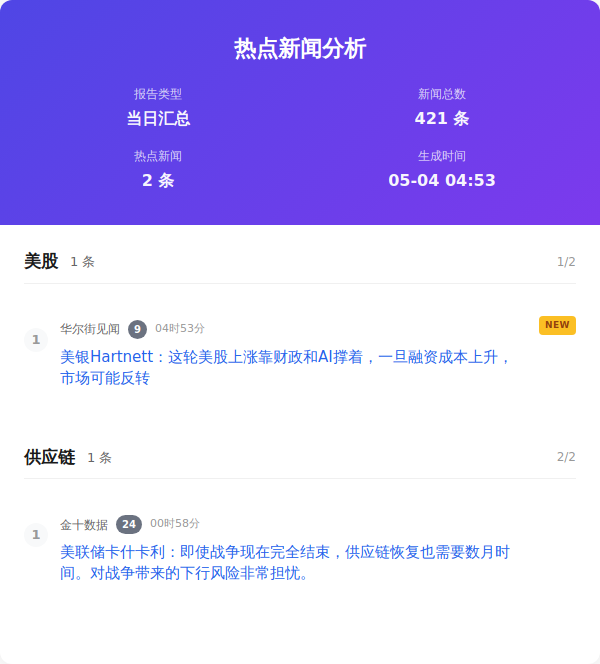
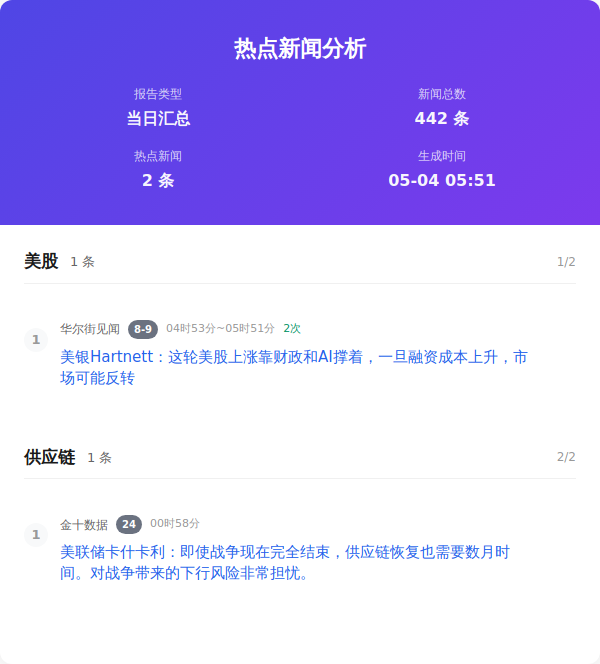
Auto update by GitHub Actions at Mon May  4 05:51:56 CST 2026

diff --git a/output/2026年05月04日/html/当日汇总.html b/output/2026年05月04日/html/当日汇总.html
@@ -357,7 +357,7 @@
                     </div>
                     <div class="info-item">
                         <span class="info-label">新闻总数</span>
-                        <span class="info-value">421 条</span>
+                        <span class="info-value">442 条</span>
                     </div>
                     <div class="info-item">
                         <span class="info-label">热点新闻</span>
@@ -365,7 +365,7 @@
                     </div>
                     <div class="info-item">
                         <span class="info-label">生成时间</span>
-                        <span class="info-value">05-04 04:53</span>
+                        <span class="info-value">05-04 05:51</span>
                     </div>
                 </div>
             </div>
@@ -379,11 +379,11 @@
                         </div>
                         <div class="word-index">1/2</div>
                     </div>
-                    <div class="news-item new">
+                    <div class="news-item ">
                         <div class="news-number">1</div>
                         <div class="news-content">
                             <div class="news-header">
-                                <span class="source-name">华尔街见闻</span><span class="rank-num ">9</span><span class="time-info">04时53分</span>
+                                <span class="source-name">华尔街见闻</span><span class="rank-num ">8-9</span><span class="time-info">04时53分~05时51分</span><span class="count-info">2次</span>
                             </div>
                             <div class="news-title"><a href="https://wallstreetcn.com/articles/3771507" target="_blank" class="news-link">美银Hartnett：这轮美股上涨靠财政和AI撑着，一旦融资成本上升，市场可能反转</a>
                             </div>